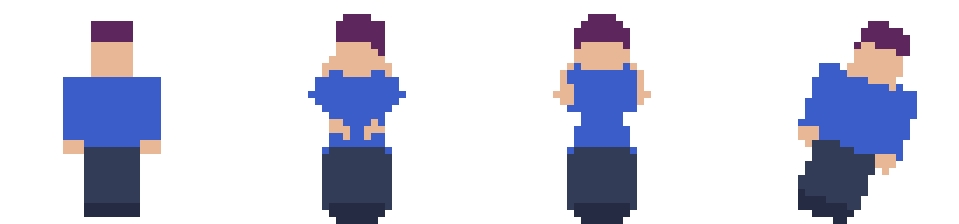
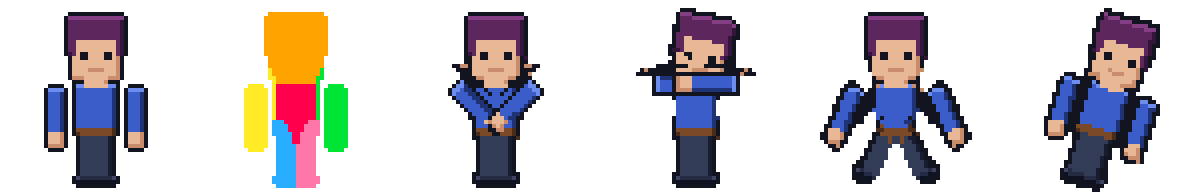
Redessiner le personnage de démonstration pour qu'il se rigge bien
L'ancien personnage tenait sur 32×32 avec les bras collés au torse. La
liaison au squelette devait alors couper au milieu d'une masse bleue
continue, et la frontière tombait n'importe où.

Le nouveau tient sur 48×48, avec les bras écartés du torse de trois pixels :
le contour de chacun garde une colonne libre entre les deux, si bien que le
bras se distingue vraiment du corps. Les membres sont allongés dans l'axe de
leur os, l'ensemble est cerné d'un trait sombre, et chaque matière porte ses
trois tons — ce dont les variantes et le générateur de détail ont besoin
pour reconnaître les familles de couleurs.

Le modèle humanoïde ne tombait pas sur ces proportions : son os de tête
descendait jusqu'au milieu du torse et ses os de bras partaient en diagonale
alors que les bras pendent le long du corps. Les deux modèles humanoïdes
sont recalés sur des proportions debout, os de bras dans l'axe des bras.

Le rendu de la pose se réglait avec deux curseurs dont l'effet se
recouvrait. Ils laissent place à un seul, de « aucun » à « généreux », qui
pilote à la fois la recherche de raccord et son exigence. Le réglage par
défaut a été choisi en comparant quatre poses à trois seuils : il referme
les articulations sans épaissir la silhouette.

Trois vérifications s'ajoutent au test de bout en bout, qui passe à 28 :
chaque membre revient bien à son propre os, aucun pixel opaque ne reste
sans os, et une pose franche — bras à l'horizontale, jambe écartée —
n'ouvre aucune fente.
[…]

diff --git a/src/ui/demo-content.ts b/src/ui/demo-content.ts
@@ -1,5 +1,5 @@
 import { Bitmap } from '../core/bitmap'
-import { fromHex, type RGBA } from '../core/color'
+import { fromHex, getA, type RGBA } from '../core/color'
 import { Sprite, Layer } from '../core/document'
 import { Palette } from '../core/palette'
 
@@ -9,50 +9,94 @@ type Ramp = [RGBA, RGBA, RGBA]
 const ramp = (dark: string, base: string, light: string): Ramp =>
   [fromHex(dark), fromHex(base), fromHex(light)]
 
+function fill(bm: Bitmap, x0: number, y0: number, x1: number, y1: number, c: RGBA): void {
+  for (let y = y0; y <= y1; y++) for (let x = x0; x <= x1; x++) bm.set(x, y, c)
+}
+
+const SKIN = ramp('#c98d6b', '#e8b796', '#f7d8c0')
+const SHIRT = ramp('#1f3273', '#3b5dc9', '#6d8dee')
+const PANTS = ramp('#171d2e', '#333c57', '#4e5a7c')
+const HAIR = ramp('#33153a', '#5d275d', '#843f84')
+const BOOT = ramp('#0f1220', '#262b44', '#3d4460')
+const BELT = ramp('#4a2c1a', '#7a4a28', '#a86a3c')
+const OUTLINE = fromHex('#12141f')
+
 /**
- * Pave ombre : lumiere en haut et a gauche, ombre en bas et a droite.
- * Chaque matiere obtient ainsi une vraie rampe de trois tons, ce que les
- * fonctions assistees savent exploiter.
+ * Ombre tout le dessin d'un coup : lumiere sur les pixels dont le voisin du
+ * haut est vide, ombre sur ceux dont le voisin du bas ou de droite l'est.
+ * Chaque matiere obtient ses trois tons, ce dont les fonctions assistees ont
+ * besoin pour reconnaitre les familles de couleurs.
  */
-function shadedBox(bm: Bitmap, x0: number, y0: number, x1: number, y1: number, r: Ramp): void {
-  for (let y = y0; y <= y1; y++) {
-    for (let x = x0; x <= x1; x++) {
-      const light = y === y0 || x === x0
-      const dark = y === y1 || x === x1
-      bm.set(x, y, light ? r[2] : dark ? r[0] : r[1])
+function shade(bm: Bitmap, tones: Map<RGBA, Ramp>): void {
+  const source = bm.clone()
+  const solid = (x: number, y: number): boolean =>
+    x >= 0 && y >= 0 && x < bm.width && y < bm.height && getA(source.u32[y * bm.width + x]) !== 0
+  for (let y = 0; y < bm.height; y++) {
+    for (let x = 0; x < bm.width; x++) {
+      const r = tones.get(source.get(x, y))
+      if (!r) continue
+      if (!solid(x, y - 1)) bm.set(x, y, r[2])
+      else if (!solid(x, y + 1) || !solid(x + 1, y)) bm.set(x, y, r[0])
     }
   }
 }
 
-function box(bm: Bitmap, x0: number, y0: number, x1: number, y1: number, c: RGBA): void {
-  for (let y = y0; y <= y1; y++) for (let x = x0; x <= x1; x++) bm.set(x, y, c)
+/** Cerne le dessin d'un trait sombre : la silhouette se detache. */
+function outline(bm: Bitmap, color: RGBA): void {
+  const source = bm.clone()
+  const solid = (x: number, y: number): boolean =>
+    x >= 0 && y >= 0 && x < bm.width && y < bm.height && getA(source.u32[y * bm.width + x]) !== 0
+  for (let y = 0; y < bm.height; y++) {
+    for (let x = 0; x < bm.width; x++) {
+      if (solid(x, y)) continue
+      if (solid(x - 1, y) || solid(x + 1, y) || solid(x, y - 1) || solid(x, y + 1)) bm.set(x, y, color)
+    }
+  }
 }
 
-const SKIN = ramp('#c28569', '#e8b796', '#f5d2ba')
-const SHIRT = ramp('#243c8c', '#3b5dc9', '#5f80e8')
-const PANTS = ramp('#1d2438', '#333c57', '#4a5573')
-const HAIR = ramp('#3d1a3d', '#5d275d', '#7d3a7d')
-const BOOT = ramp('#15182b', '#262b44', '#3a4059')
-
-/** Personnage de face, sur 32x32, pense pour etre rigge puis pose. */
+/**
+ * Personnage de face sur 48x48, dessine pour se rigger proprement.
+ *
+ * Les bras sont ecartes du torse de trois pixels : le contour de chacun
+ * garde alors une colonne libre entre eux, si bien que la liaison au
+ * squelette separe le bras du corps au lieu de couper au milieu d'une masse
+ * continue. Les membres sont allonges dans l'axe de leur os, ce qui rend la
+ * rotation lisible.
+ */
 export function demoCharacter(): Sprite {
-  const sprite = new Sprite(32, 32, Palette.preset('DawnBringer 32'))
+  const sprite = new Sprite(48, 48, Palette.preset('DawnBringer 32'))
   sprite.name = 'demo_perso'
-  const bm = new Bitmap(32, 32)
+  sprite.pivot = { x: 0.5, y: 1 }
+  const bm = new Bitmap(48, 48)
 
-  shadedBox(bm, 12, 11, 19, 21, SHIRT)   // torse
-  shadedBox(bm, 9, 11, 11, 19, SHIRT)    // bras gauche
-  shadedBox(bm, 20, 11, 22, 19, SHIRT)   // bras droit
-  shadedBox(bm, 9, 20, 11, 22, SKIN)     // main gauche
-  shadedBox(bm, 20, 20, 22, 22, SKIN)    // main droite
-  shadedBox(bm, 13, 6, 18, 10, SKIN)     // visage
-  shadedBox(bm, 12, 3, 19, 6, HAIR)      // cheveux
-  box(bm, 14, 8, 14, 8, fromHex('#1d2438'))
-  box(bm, 17, 8, 17, 8, fromHex('#1d2438'))
-  shadedBox(bm, 12, 22, 15, 28, PANTS)   // jambe gauche
-  shadedBox(bm, 16, 22, 19, 28, PANTS)   // jambe droite
-  shadedBox(bm, 12, 29, 15, 30, BOOT)
-  shadedBox(bm, 16, 29, 19, 30, BOOT)
+  fill(bm, 20, 34, 27, 37, PANTS[1])       // bassin
+  fill(bm, 20, 38, 23, 43, PANTS[1])       // jambe gauche
+  fill(bm, 24, 38, 27, 43, PANTS[1])       // jambe droite
+  fill(bm, 19, 44, 23, 45, BOOT[1])        // botte gauche
+  fill(bm, 24, 44, 28, 45, BOOT[1])        // botte droite
+  fill(bm, 19, 21, 28, 31, SHIRT[1])       // torse
+  fill(bm, 19, 32, 28, 33, BELT[1])        // ceinture
+  fill(bm, 12, 22, 15, 32, SHIRT[1])       // bras gauche
+  fill(bm, 32, 22, 35, 32, SHIRT[1])       // bras droit
+  fill(bm, 12, 33, 15, 36, SKIN[1])        // main gauche
+  fill(bm, 32, 33, 35, 36, SKIN[1])        // main droite
+  fill(bm, 21, 19, 26, 21, SKIN[1])        // cou
+  fill(bm, 18, 8, 29, 19, SKIN[1])         // visage
+  fill(bm, 17, 4, 30, 9, HAIR[1])          // cheveux
+  fill(bm, 17, 8, 18, 13, HAIR[1])         // meche gauche
+  fill(bm, 29, 8, 30, 13, HAIR[1])         // meche droite
+
+  shade(bm, new Map<RGBA, Ramp>([
+    [SKIN[1], SKIN], [SHIRT[1], SHIRT], [PANTS[1], PANTS],
+    [HAIR[1], HAIR], [BOOT[1], BOOT], [BELT[1], BELT],
+  ]))
+
+  // Visage pose apres l'ombrage, pour rester net.
+  fill(bm, 20, 13, 21, 14, OUTLINE)
+  fill(bm, 26, 13, 27, 14, OUTLINE)
+  fill(bm, 22, 17, 25, 17, SKIN[0])
+
+  outline(bm, OUTLINE)
 
   const layer = new Layer('Personnage', 1)
   layer.cels[0] = { bitmap: bm, opacity: 255 }
@@ -70,12 +114,12 @@ export function demoGrassBlock(): Sprite {
   const grass = ramp('#2c6b2f', '#3e8c3a', '#57ad4a')
   const dirt = ramp('#5a3d26', '#8f6642', '#a87c52')
 
-  box(bm, 0, 0, 15, 0, grass[2])
-  box(bm, 0, 1, 15, 3, grass[1])
-  box(bm, 0, 4, 15, 4, grass[0])
-  box(bm, 0, 5, 15, 5, dirt[2])
-  box(bm, 0, 6, 15, 14, dirt[1])
-  box(bm, 0, 15, 15, 15, dirt[0])
+  fill(bm, 0, 0, 15, 0, grass[2])
+  fill(bm, 0, 1, 15, 3, grass[1])
+  fill(bm, 0, 4, 15, 4, grass[0])
+  fill(bm, 0, 5, 15, 5, dirt[2])
+  fill(bm, 0, 6, 15, 14, dirt[1])
+  fill(bm, 0, 15, 15, 15, dirt[0])
 
   const layer = new Layer('Tuile', 1)
   layer.cels[0] = { bitmap: bm, opacity: 255 }
@@ -103,7 +147,7 @@ export function demoBall(): Sprite {
         bm.set(11 + x, top + y, tone)
       }
     }
-    box(bm, 0, 30, 31, 31, fromHex('#333c57'))
+    fill(bm, 0, 30, 31, 31, fromHex('#333c57'))
     return { bitmap: bm, opacity: 255 }
   })
   sprite.layers = [layer]

diff --git a/src/ui/rig-panel.ts b/src/ui/rig-panel.ts
@@ -4,7 +4,7 @@ import {
   type Bone, type Pose,
 } from '../smart/rig'
 import { RIG_TEMPLATES, applyTemplate } from '../smart/rig-presets'
-import { rigState, refreshPose } from '../tools'
+import { rigState, refreshPose, seamSettings } from '../tools'
 import { el, clear, iconButton, numberInput, segmented, slider } from './dom'
 import { icon } from './icons'
 import { confirmDialog, openMenu, showToast } from './overlay'
@@ -86,15 +86,16 @@ export class RigPanel {
     if (!bound) return
 
     // --- reglages de deformation ---
+    const seamLabels = ['aucun', 'discret', 'normal', 'genereux']
     this.body.appendChild(el('div', { class: 'form-section' }, 'Rendu de la pose'))
     this.body.appendChild(el('div', { class: 'opt' },
       el('label', { style: { width: '74px' } }, 'Jointures'),
-      slider(0, 3, rigState.seamRadius, 1, (v) => { rigState.seamRadius = v; refreshPose(this.ed) }, (v) => `${v} px`),
+      slider(0, 3, rigState.seam, 1,
+        (v) => { rigState.seam = v; refreshPose(this.ed) },
+        (v) => seamLabels[v] ?? ''),
     ))
-    this.body.appendChild(el('div', { class: 'opt' },
-      el('label', { style: { width: '74px' } }, 'Comblement'),
-      slider(0, 4, rigState.fillPasses, 1, (v) => { rigState.fillPasses = v; refreshPose(this.ed) }),
-    ))
+    this.body.appendChild(el('p', { class: 'form-note', style: { marginTop: '4px' } },
+      'Referme les fentes qui apparaissent a l\'articulation. Trop haut, la silhouette s\'epaissit.'))
 
     // --- frames ---
     this.body.appendChild(el('div', { class: 'form-section' }, 'Frames'))
@@ -258,7 +259,7 @@ export class RigPanel {
 
   /** Fige la pose courante dans une nouvelle frame. */
   private frameFromPose(): void {
-    const posed = deform(this.rig, { seamRadius: rigState.seamRadius, fillPasses: rigState.fillPasses })
+    const posed = deform(this.rig, seamSettings(rigState.seam))
     if (!posed) { showToast('Liez d\'abord les pixels', 'error'); return }
     const ed = this.ed
     const at = ed.activeFrame + 1
@@ -283,7 +284,7 @@ export class RigPanel {
       for (let i = 1; i <= steps; i++) {
         const t = i / steps
         applyPose(rig, lerpPose(this.poseA!, poseB, t))
-        const posed = deform(rig, { seamRadius: rigState.seamRadius, fillPasses: rigState.fillPasses })
+        const posed = deform(rig, seamSettings(rigState.seam))
         if (!posed) continue
         const at = from + i
         ed.sprite.duplicateFrame(from, at)

diff --git a/src/smart/rig-presets.ts b/src/smart/rig-presets.ts
@@ -30,13 +30,16 @@ export const RIG_TEMPLATES: RigTemplate[] = [
     id: 'humanoid-front',
     label: 'Humanoide de face',
     hint: 'Torse, tete, deux bras, deux jambes',
+    // Proportions d'un personnage debout, bras le long du corps : la tete
+    // occupe le tiers haut, le torse s'arrete a la taille, et les os des
+    // bras passent dans l'axe des bras plutot qu'en diagonale.
     bones: [
-      { name: 'torse', x: 0.5, y: 0.62, ex: 0.5, ey: 0.26, parent: null },
-      { name: 'tete', x: 0.5, y: 0.26, ex: 0.5, ey: 0.04, parent: 0 },
-      { name: 'bras G', x: 0.3, y: 0.31, ex: 0.1, ey: 0.62, parent: 0 },
-      { name: 'bras D', x: 0.7, y: 0.31, ex: 0.9, ey: 0.62, parent: 0 },
-      { name: 'jambe G', x: 0.4, y: 0.62, ex: 0.38, ey: 0.98, parent: 0 },
-      { name: 'jambe D', x: 0.6, y: 0.62, ex: 0.62, ey: 0.98, parent: 0 },
+      { name: 'torse', x: 0.5, y: 0.7, ex: 0.5, ey: 0.4, parent: null },
+      { name: 'tete', x: 0.5, y: 0.4, ex: 0.5, ey: 0.03, parent: 0 },
+      { name: 'bras G', x: 0.1, y: 0.43, ex: 0.1, ey: 0.78, parent: 0 },
+      { name: 'bras D', x: 0.9, y: 0.43, ex: 0.9, ey: 0.78, parent: 0 },
+      { name: 'jambe G', x: 0.4, y: 0.7, ex: 0.4, ey: 0.98, parent: 0 },
+      { name: 'jambe D', x: 0.6, y: 0.7, ex: 0.6, ey: 0.98, parent: 0 },
     ],
   },
   {
@@ -44,12 +47,12 @@ export const RIG_TEMPLATES: RigTemplate[] = [
     label: 'Humanoide de profil',
     hint: 'Membres avant et arriere separes, pour une marche',
     bones: [
-      { name: 'torse', x: 0.5, y: 0.62, ex: 0.48, ey: 0.26, parent: null },
-      { name: 'tete', x: 0.48, y: 0.26, ex: 0.44, ey: 0.05, parent: 0 },
-      { name: 'bras arriere', x: 0.5, y: 0.31, ex: 0.66, ey: 0.6, parent: 0 },
-      { name: 'bras avant', x: 0.46, y: 0.31, ex: 0.28, ey: 0.6, parent: 0 },
-      { name: 'jambe arriere', x: 0.52, y: 0.62, ex: 0.64, ey: 0.98, parent: 0 },
-      { name: 'jambe avant', x: 0.48, y: 0.62, ex: 0.34, ey: 0.98, parent: 0 },
+      { name: 'torse', x: 0.5, y: 0.7, ex: 0.48, ey: 0.4, parent: null },
+      { name: 'tete', x: 0.48, y: 0.4, ex: 0.44, ey: 0.04, parent: 0 },
+      { name: 'bras arriere', x: 0.56, y: 0.44, ex: 0.68, ey: 0.76, parent: 0 },
+      { name: 'bras avant', x: 0.42, y: 0.44, ex: 0.3, ey: 0.76, parent: 0 },
+      { name: 'jambe arriere', x: 0.54, y: 0.7, ex: 0.64, ey: 0.98, parent: 0 },
+      { name: 'jambe avant', x: 0.46, y: 0.7, ex: 0.36, ey: 0.98, parent: 0 },
     ],
   },
   {

diff --git a/src/tools/rig-tool.ts b/src/tools/rig-tool.ts
@@ -13,9 +13,22 @@ export const rigState = {
   mode: 'edit' as RigMode,
   /** Os selectionne, par identifiant. */
   selected: null as number | null,
-  /** Recolle les jointures ; plus la valeur est haute, plus la matiere s'etire. */
-  seamRadius: 1,
-  fillPasses: 2,
+  /**
+   * Recollement des jointures, de 0 (aucun) a 3 (genereux). Un seul reglage
+   * pilote la recherche et son exigence : plus il monte, plus les fissures
+   * se referment, mais plus la silhouette s'epaissit.
+   */
+  seam: 2,
+}
+
+/** Traduit le reglage unique en parametres de deformation. */
+export const seamSettings = (level: number): { seamRadius: number; seamNeighbours: number; fillPasses: number } => {
+  switch (Math.max(0, Math.min(3, Math.round(level)))) {
+    case 0: return { seamRadius: 0, seamNeighbours: 8, fillPasses: 0 }
+    case 1: return { seamRadius: 1, seamNeighbours: 5, fillPasses: 1 }
+    case 3: return { seamRadius: 2, seamNeighbours: 3, fillPasses: 2 }
+    default: return { seamRadius: 1, seamNeighbours: 4, fillPasses: 1 }
+  }
 }
 
 type Drag =
@@ -82,7 +95,7 @@ export function refreshPose(ed: Editor): void {
   if (!rig.rest || !rig.weights) return
   const cel = ed.peekCel()
   if (!cel) return
-  const posed = deform(rig, { seamRadius: rigState.seamRadius, fillPasses: rigState.fillPasses })
+  const posed = deform(rig, seamSettings(rigState.seam))
   if (!posed) return
   cel.bitmap.copyFrom(posed)
   ed.events.emit('doc', undefined)

diff --git a/src/smart/rig.ts b/src/smart/rig.ts
@@ -204,6 +204,12 @@ export interface DeformOptions {
   seamRadius?: number
   /** Passes de comblement des trous restants. */
   fillPasses?: number
+  /**
+   * Nombre de voisins pleins exiges pour recoller un vide. Plus la valeur
+   * est haute, plus la silhouette reste fidele ; plus elle est basse, plus
+   * les fissures se referment.
+   */
+  seamNeighbours?: number
 }
 
 /**
@@ -223,6 +229,7 @@ export function deform(rig: Rig, options: DeformOptions = {}): Bitmap | null {
 
   const seamRadius = options.seamRadius ?? 1
   const fillPasses = options.fillPasses ?? 1
+  const seamNeighbours = options.seamNeighbours ?? 4
   const w = rest.width, h = rest.height
   const out = new Bitmap(w, h)
 
@@ -285,7 +292,7 @@ export function deform(rig: Rig, options: DeformOptions = {}): Bitmap | null {
       for (let x = 0; x < w; x++) {
         const i = y * w + x
         if (getA(filled[i]) !== 0) continue
-        if (neighbourCount(x, y) < 3) continue
+        if (neighbourCount(x, y) < seamNeighbours) continue
         let color: RGBA | null = null
         for (const { bone, index } of order) {
           const inv = inverses.get(bone.id)!

diff --git a/src/tools/index.ts b/src/tools/index.ts
@@ -13,7 +13,7 @@ import { rigTool } from './rig-tool'
 
 export * from './types'
 export { beginMove, applyMove, endMove } from './select-tools'
-export { rigState, refreshPose } from './rig-tool'
+export { rigState, refreshPose, seamSettings } from './rig-tool'
 
 /** Ordre d'affichage dans la barre d'outils, groupe par famille. */
 export const TOOL_LIST: Tool[] = [

diff --git a/README.md b/README.md
@@ -135,12 +135,21 @@ réglages aveugles. Les couleurs du sprite sont d'abord regroupées en
 lumière. C'est l'unité de travail naturelle du pixel art : un vêtement, une
 peau, un feuillage sont chacun une famille.
 
-![Un personnage au repos puis posé par le squelette](docs/rig.png)
+![Le personnage au repos, la carte des os, puis quatre poses](docs/rig.png)
+
+*De gauche à droite : le dessin de repos, la carte des os — une couleur par
+os, qui montre à qui appartient chaque pixel — puis quatre poses.*
 
 **Squelette et pose** (`K`). Six modèles prêts à l'emploi — humanoïde de face
 et de profil, quadrupède, oiseau, arbre, membre simple — se calent sur la
 boîte des pixels opaques, donc ils tombent juste quelle que soit la taille du
-sprite. On peut aussi tracer les os soi-même. On lie ensuite les
+sprite. On peut aussi tracer les os soi-même.
+
+Un personnage se rigge d'autant mieux que ses membres se distinguent du
+corps : le personnage de démonstration écarte les bras du torse de trois
+pixels, ce qui laisse une colonne libre entre les deux contours. La liaison
+sépare alors le bras du corps au lieu de couper au milieu d'une masse
+continue. On lie ensuite les
 pixels : chacun est attribué à l'os le plus proche. Tirer une
 extrémité fait pivoter le membre et l'image est régénérée : le parcours va
 du pixel d'arrivée vers sa source, donc aucun trou n'apparaît là où la
